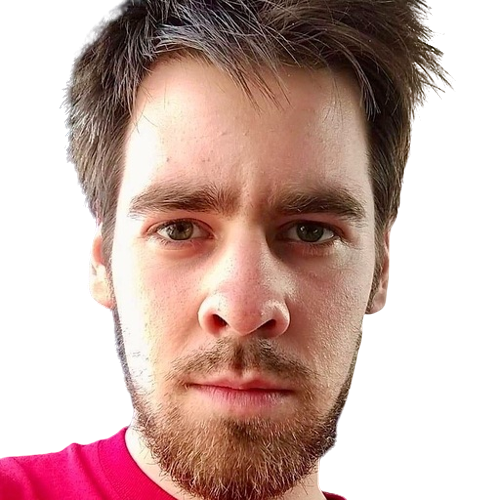
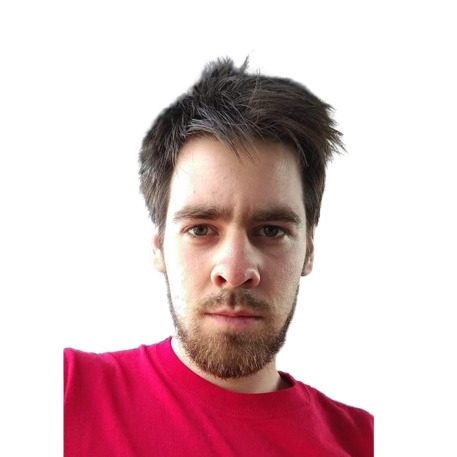
updated Dex and Dan photo/bio

diff --git a/front-end/src/components/about/About.css b/front-end/src/components/about/About.css
@@ -41,6 +41,8 @@ img.about-pic {
   border-radius: 15rem;
   border: solid 1px white;
   background-color: #4f7fbdeb;
+
+  position: relative;
 }
 
 h2.about-name {
@@ -51,16 +53,22 @@ h2.about-name {
   color: #406ca6;
   font-size: 2rem;
   font-weight: 700;
+
+  position: relative;
 }
 
 .about-footer {
   display: flex;
   justify-content: space-between;
   padding: 1rem 2rem;
+
+  position: relative;
 }
 
-.about-footer.ann{
+.about-footer.ann {
   padding: 1rem 2.5rem;
+
+  position: relative;
 }
 
 .about-footer p.about-title {
@@ -70,6 +78,8 @@ h2.about-name {
   font-weight: 900;
   color: #646464e7;
   -webkit-text-stroke: 0.3px #646464e7;
+
+  position: relative;
 }
 
 .about-footer p.num {
@@ -83,10 +93,14 @@ h2.about-name {
 
 div.profile-top {
   background-color: transparent;
+
+  position: relative;
 }
 
 div.city {
   margin-left: 1rem;
+
+  position: relative;
 }
 
 div.about-wrapper {
@@ -94,13 +108,17 @@ div.about-wrapper {
   flex-direction: row;
 
   justify-content: space-evenly;
+
+  position: relative;
 }
 
 div.about-container {
   background-color: transparent;
   margin: 1.5rem;
-  border:dashed 4px #4770aac4;
+  border: dashed 4px #4770aac4;
   border-radius: 1.5rem;
+
+  position: relative;
 }
 
 img.github {
@@ -125,6 +143,8 @@ p.about__bio {
   color: #646464e7;
   -webkit-text-stroke: 0.3px #646464e7;
   line-height: 1.3rem;
+
+  position: relative;
 }
 
 p.dev {
@@ -133,9 +153,11 @@ p.dev {
   font-weight: 700;
   margin-bottom: 5px;
   color: #406ca6;
+
+  position: relative;
 }
 
-.dev-wrapper {
+/* .dev-wrapper {
   min-height: 32rem;
   max-height: 33rem;
 
@@ -146,9 +168,11 @@ p.dev {
   border-radius: 1rem;
   overflow: hidden;
 
- 
   background-color: rgba(255, 255, 255, 0.491);
 
   text-align: center;
+} */
 
+.testing {
+  color: #eff4eccc;
 }

diff --git a/front-end/src/components/about/Dan.js b/front-end/src/components/about/Dan.js
@@ -17,7 +17,8 @@ const Container = styled(animated.div)`
   overflow: hidden;
 
   margin: 1rem;
-  background-color:#e9eff6ab;
+
+  background-color: #e9eff6ab;
 
   text-align: center;
 `;
@@ -52,11 +53,10 @@ export default function About() {
       </div>
       <div className="about-bio">
         <p className="about__bio">
-          A front-end lover
+          Sports fanatic who has a passion for coding. Loves working with data
+          and statistics.
           <br />
-          Amateur UX/UI designer.
-          <br />I am passionate about designing and creating products that are
-          user-friendly and visually appealing.
+          Wishes he could design an app that would help the Leafs win the Cup
         </p>
       </div>
       <div className="about-footer">

diff --git a/front-end/src/components/about/Dex.js b/front-end/src/components/about/Dex.js
@@ -17,7 +17,7 @@ const Container = styled(animated.div)`
   overflow: hidden;
 
   margin: 1rem;
-  background-color:#e9eff6ab;
+  background-color: #e9eff6ab;
 
   text-align: center;
 `;
@@ -52,11 +52,7 @@ export default function About() {
       </div>
       <div className="about-bio">
         <p className="about__bio">
-          A front-end lover
-          <br />
-          Amateur UX/UI designer.
-          <br />I am passionate about designing and creating products that are
-          user-friendly and visually appealing.
+        Cat lover and mathemagical wizard. Probably outside playing guitar or skateboarding around the city. Capable of building super epic web applications in the blink of an eye. 
         </p>
       </div>
       <div className="about-footer">

diff --git a/front-end/src/components/about/Ann.js b/front-end/src/components/about/Ann.js
@@ -25,7 +25,7 @@ const calc = (x, y) => [
   // (x - window.innerWidth / 4) / 60,
   -(y - window.innerHeight / 2) / 40,
   (x - window.innerWidth / 1 / 4) / 20,
-  1.1,
+  1,
 ];
 const trans = (x, y, s) =>
   `perspective(600px) rotateX(${x}deg) rotateY(${y}deg) scale(${s})`;
